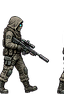
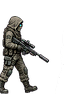
Corrige la découpe des sprites d'ennemis (sniper et autres)
Onze frames de marche contenaient des débris des frames voisines collés
au bord (bottes, bouts de fusil) et une silhouette décalée par rapport à
la pose de repos. Les débris gonflaient aussi le rectangle englobant qui
place les yeux des variantes possédées du Déferlement.

tools/clean_sprites.py retire les composantes connexes touchant le bord
et recentre la silhouette sur la pose de repos de la même vue ; un test
vérifie que les PNG restent propres. Corrige aussi une ligne trop longue
dans settings.py (E501).

Claude-Session: https://claude.ai/code/session_013H3KgkLBE3k7Nn5ZuzKD3K

Changed region(s): [[0.875, 0.4688, 1.0, 1.0]]

diff --git a/tools/clean_sprites.py b/tools/clean_sprites.py
@@ -1,0 +1,114 @@
+"""Nettoie les PNG d'ennemis mal découpés depuis leur planche d'origine.
+
+Certaines frames contiennent des débris des frames voisines (une botte, un
+bout de fusil) collés au bord de l'image, et un personnage décalé par
+rapport à sa pose de repos. Ces débris gonflent `get_bounding_rect`, ce qui
+décale aussi les yeux des variantes possédées.
+
+Pour chaque `assets/enemy_*.png` (hors cadavres) :
+1. supprime les composantes connexes (alpha >= 12, 8-voisinage) qui touchent
+   le bord de l'image et ne sont pas la composante principale ;
+2. recentre horizontalement la silhouette sur la pose de repos de la même
+   vue (`idle`, `idle_back`, `idle_side`) si l'écart dépasse 3 px.
+
+Usage : python tools/clean_sprites.py [--check]
+`--check` n'écrit rien et sort en erreur si un fichier doit être corrigé.
+"""
+
+import argparse
+import glob
+import os
+import sys
+
+import pygame
+
+ROOT = os.path.dirname(os.path.dirname(os.path.abspath(__file__)))
+ASSET_DIR = os.path.join(ROOT, "assets")
+MIN_ALPHA = 12
+CENTER_TOLERANCE = 3
+
+
+def components(surface):
+    """Composantes connexes opaques : listes de pixels (x, y)."""
+    mask = pygame.mask.from_surface(surface, MIN_ALPHA)
+    width, height = mask.get_size()
+    return [[(x, y) for y in range(height) for x in range(width) if part.get_at((x, y))]
+            for part in mask.connected_components()]
+
+
+def strip_edge_fragments(surface):
+    """Efface les débris touchant le bord ; retourne le nombre de pixels."""
+    width, height = surface.get_size()
+    parts = sorted(components(surface), key=len, reverse=True)
+    removed = 0
+    for part in parts[1:]:
+        if any(x in (0, width - 1) or y in (0, height - 1) for x, y in part):
+            for point in part:
+                surface.set_at(point, (0, 0, 0, 0))
+            removed += len(part)
+    return removed
+
+
+def reference_name(name):
+    """Pose de repos de la même vue que `name` (ou None)."""
+    kind = name.split("_")[1]
+    if name.endswith("_back"):
+        view = "_back"
+    elif name.endswith("_side"):
+        view = "_side"
+    else:
+        view = ""
+    reference = f"enemy_{kind}_idle{view}"
+    return None if reference == name else reference
+
+
+def recenter(surface, target_centerx):
+    """Décale la silhouette pour aligner son centre ; retourne le décalage."""
+    bounds = surface.get_bounding_rect(min_alpha=MIN_ALPHA)
+    shift = target_centerx - bounds.centerx
+    if abs(shift) <= CENTER_TOLERANCE:
+        return 0
+    shift = max(-bounds.x, min(surface.get_width() - bounds.right, shift))
+    moved = pygame.Surface(surface.get_size(), pygame.SRCALPHA)
+    moved.blit(surface, (shift, 0))
+    surface.fill((0, 0, 0, 0))
+    surface.blit(moved, (0, 0))
+    return shift
+
+
+def clean(write=True):
+    changed = []
+    paths = sorted(glob.glob(os.path.join(ASSET_DIR, "enemy_*.png")))
+    names = [os.path.splitext(os.path.basename(p))[0] for p in paths]
+    surfaces = {n: pygame.image.load(p) for n, p in zip(names, paths, strict=True)}
+    # Les poses de repos d'abord : elles servent de référence aux autres.
+    for name in sorted(names, key=lambda n: "_idle" not in n):
+        if "_dead" in name:
+            continue
+        surface = surfaces[name]
+        removed = strip_edge_fragments(surface)
+        shift = 0
+        reference = reference_name(name)
+        if reference in surfaces:
+            target = surfaces[reference].get_bounding_rect(min_alpha=MIN_ALPHA).centerx
+            shift = recenter(surface, target)
+        if removed or shift:
+            changed.append((name, removed, shift))
+            if write:
+                pygame.image.save(surface, os.path.join(ASSET_DIR, name + ".png"))
+    return changed
+
+
+def main():
+    parser = argparse.ArgumentParser(description=__doc__.splitlines()[0])
+    parser.add_argument("--check", action="store_true")
+    args = parser.parse_args()
+    changed = clean(write=not args.check)
+    for name, removed, shift in changed:
+        print(f"{name}: {removed} px de débris retirés, décalage {shift:+d} px")
+    if args.check and changed:
+        sys.exit(1)
+
+
+if __name__ == "__main__":
+    main()

diff --git a/tests/test_deferlement_rework.py b/tests/test_deferlement_rework.py
@@ -1,0 +1,24 @@
+"""Non-régressions de la refonte du Déferlement (octobre 2026)."""
+
+import os
+import sys
+import unittest
+
+os.environ.setdefault("SDL_VIDEODRIVER", "dummy")
+os.environ.setdefault("SDL_AUDIODRIVER", "dummy")
+
+import pygame
+
+sys.path.insert(0, os.path.join(os.path.dirname(os.path.dirname(__file__)), "tools"))
+import clean_sprites  # noqa: E402
+
+
+class SpriteCleanupTests(unittest.TestCase):
+    def test_enemy_sprites_have_no_edge_fragments_nor_offset(self):
+        """Aucun débris de frame voisine ni silhouette décalée (sniper...)."""
+        pygame.init()
+        self.assertEqual(clean_sprites.clean(write=False), [])
+
+
+if __name__ == "__main__":
+    unittest.main()

diff --git a/settings.py b/settings.py
@@ -102,7 +102,8 @@ class Settings:
 
     def __init__(self):
         self.resolution_index = 3        # 1280x720 par défaut
-        self.sound_volume = 0.4          # effets sonores (0.0 → 1.0), bas pour laisser entendre la musique
+        # Effets sonores (0.0 → 1.0) : bas par défaut pour laisser entendre la musique.
+        self.sound_volume = 0.4
         self.music_volume = 0.7          # musique (0.0 → 1.0)
         self.sensitivity = 0.5           # sensibilité souris (0.1 → 1.0)
         self.invert_mouse = False        # inverse les deux axes de la souris
